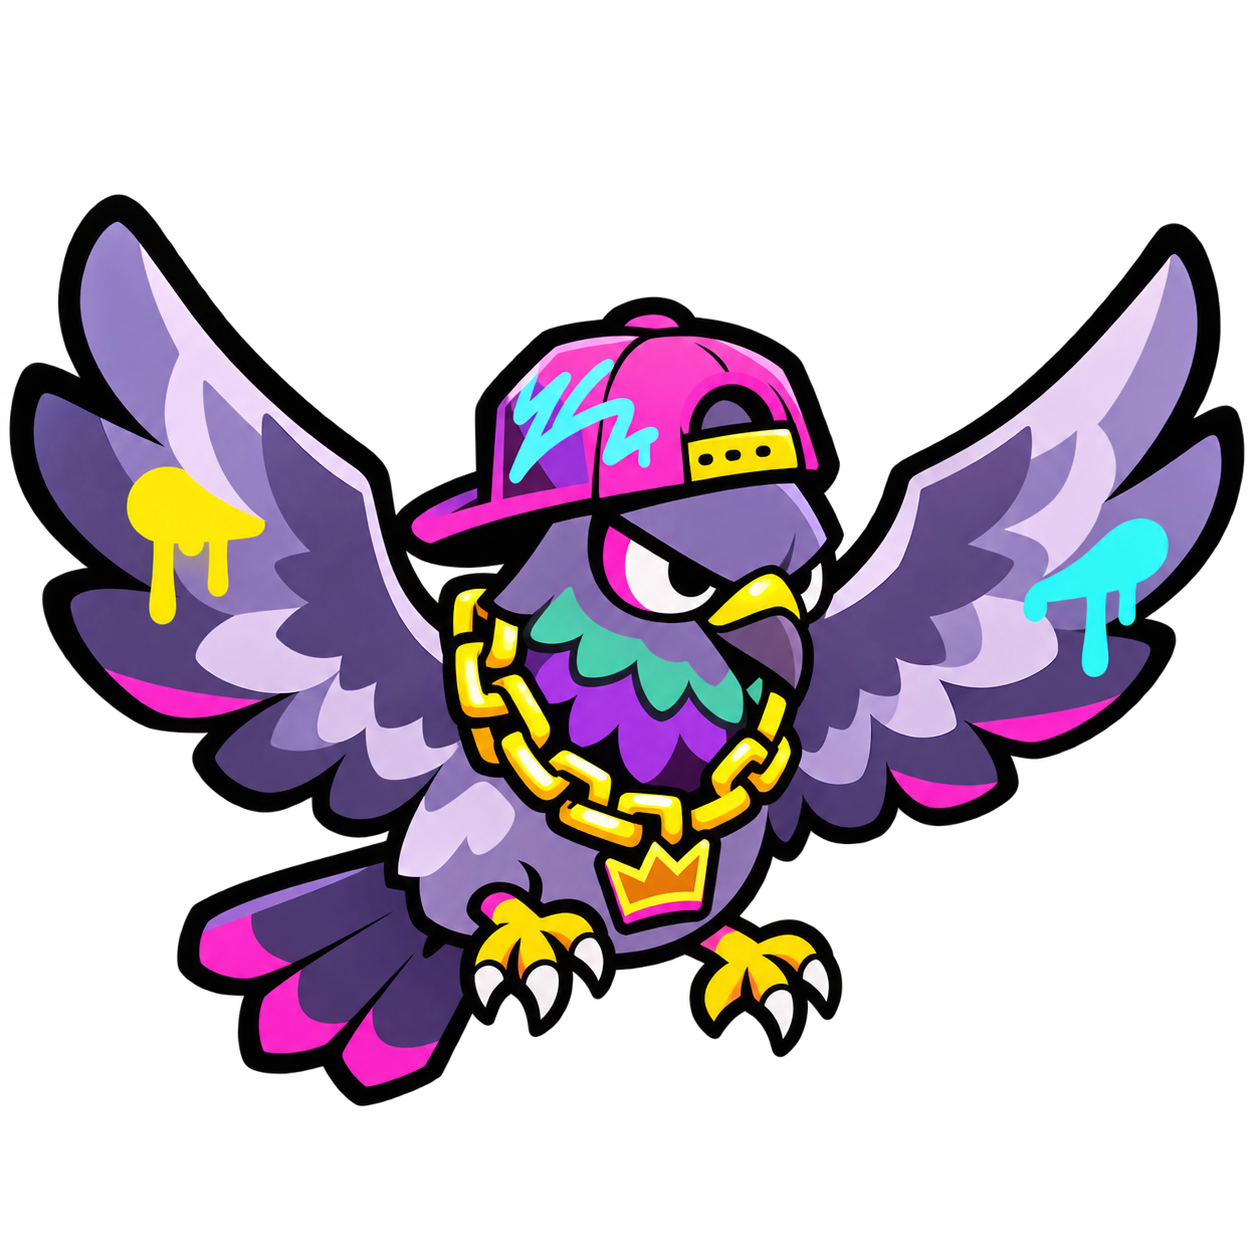
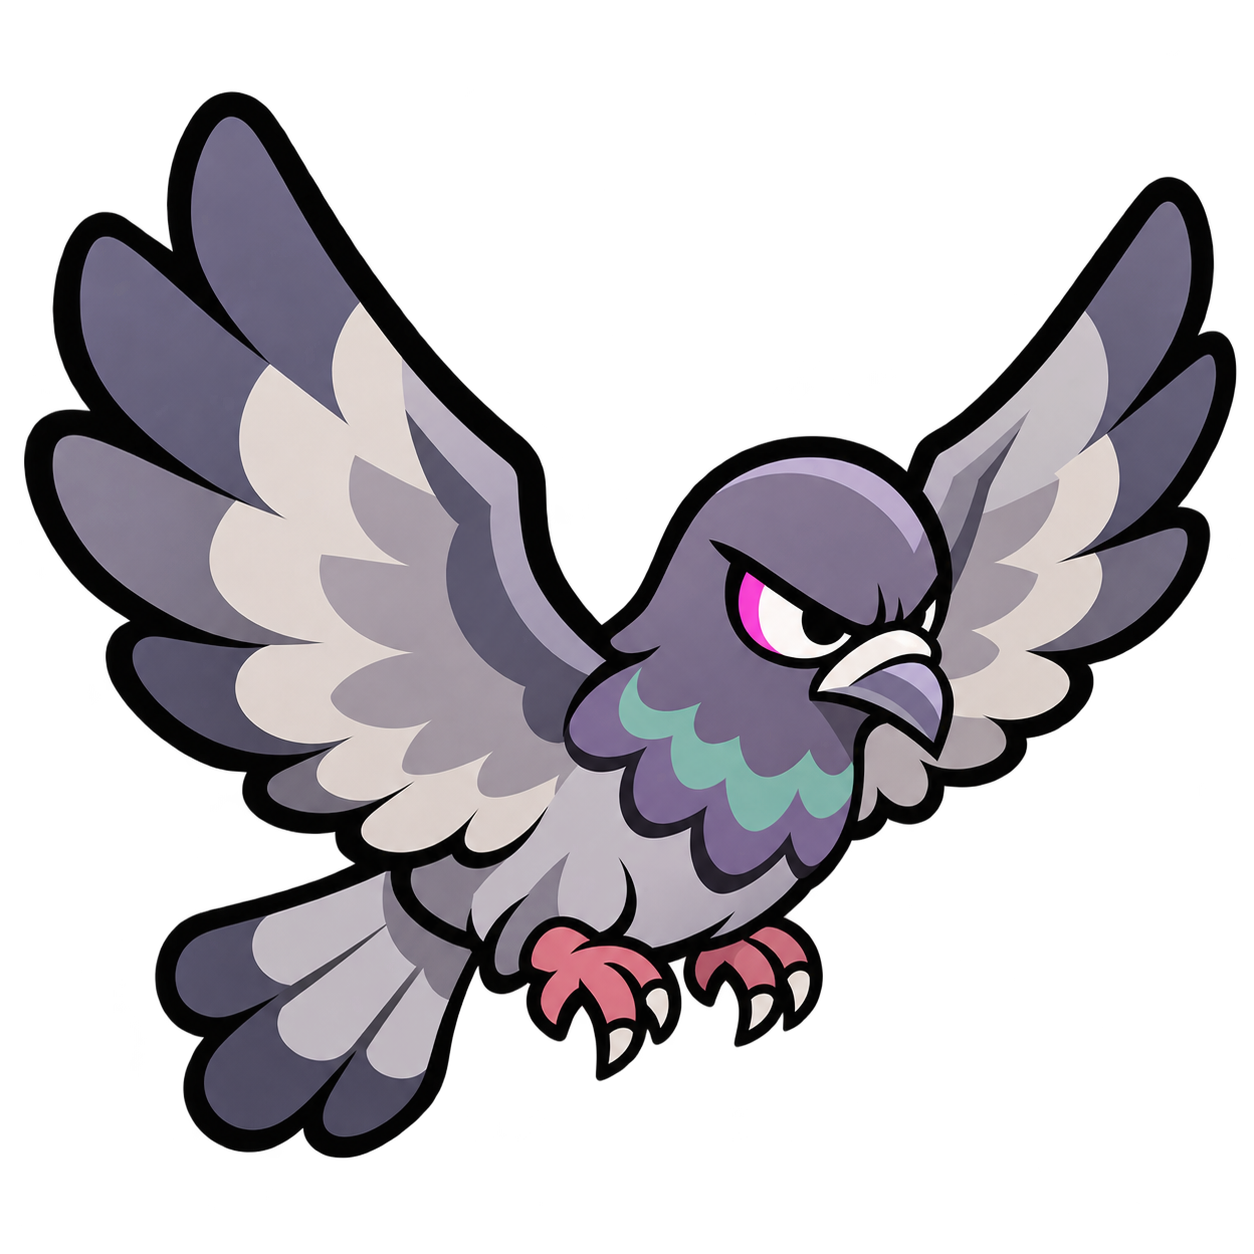
冒険: PIGE の 絵(描きなおし・企画者)を 入れた
Claude-Session: https://claude.ai/code/session_01MXithgTc5umkveoyZShZHQ

diff --git a/src/render/dungeonView.ts b/src/render/dungeonView.ts
@@ -154,12 +154,13 @@ interface MobArt {
   h: number;
   fly: boolean;
 }
-/** 絵の ある 敵(企画者の 絵が とどいたら ここに 足す。2026-11-24 前の PIGE の 絵は 方針が 変わったので 使わない) */
+/** 絵の ある 敵(企画者の 絵が とどいたら ここに 足す) */
 const MOB_ART: Record<string, { file: string; h: number; fly: boolean }> = {
   slime: { file: 'assets/adventure/mob_slime.webp', h: 1.5, fly: false },
   // 【仮】KING SLIME の 絵が とどくまで SLIME の 絵を 大きく + 金の 王冠
   kingslime: { file: 'assets/adventure/mob_slime.webp', h: 3.6, fly: false },
   ratz: { file: 'assets/adventure/mob_ratz.webp', h: 1.2, fly: false },
+  pige: { file: 'assets/adventure/mob_pige.webp', h: 1.4, fly: true },
 };
 /** 【仮】絵が とどくまでの 仮の 形(色・大きさ・形) */
 const MOB_LOOK: Record<MobKind, { color: number; size: number; shape: 'ball' | 'flat' | 'can' | 'block' | 'cap'; ghost?: boolean }> = {

diff --git a/docs/ADVENTURE.md b/docs/ADVENTURE.md
@@ -156,3 +156,4 @@
 - 強さの 目安（自動で 遊ぶ プログラムで 調べた。ボスの 赤い 印は よける）: 10階は Lv20 で 半分くらい クリア・のこり HP 1〜2割 / Lv15 では クリアできない。5階は Lv15〜20
 - 確認用ページ: 「確認 NF」ボタンで 階を えらべる
 - 2026-11-24 冒険だけの 確認用ページ（9つめ・`--adv`）: https://claude.ai/artifact/NAUqpMvP5MNTiRm6vdW3vN 。敵の 絵は こちらだけ（STREET KING の ページは 15MB に 入らないため）
+- 3体目: PIGE（描きなおし。前の 絵は `unused/adventure/pige_old.png`）
